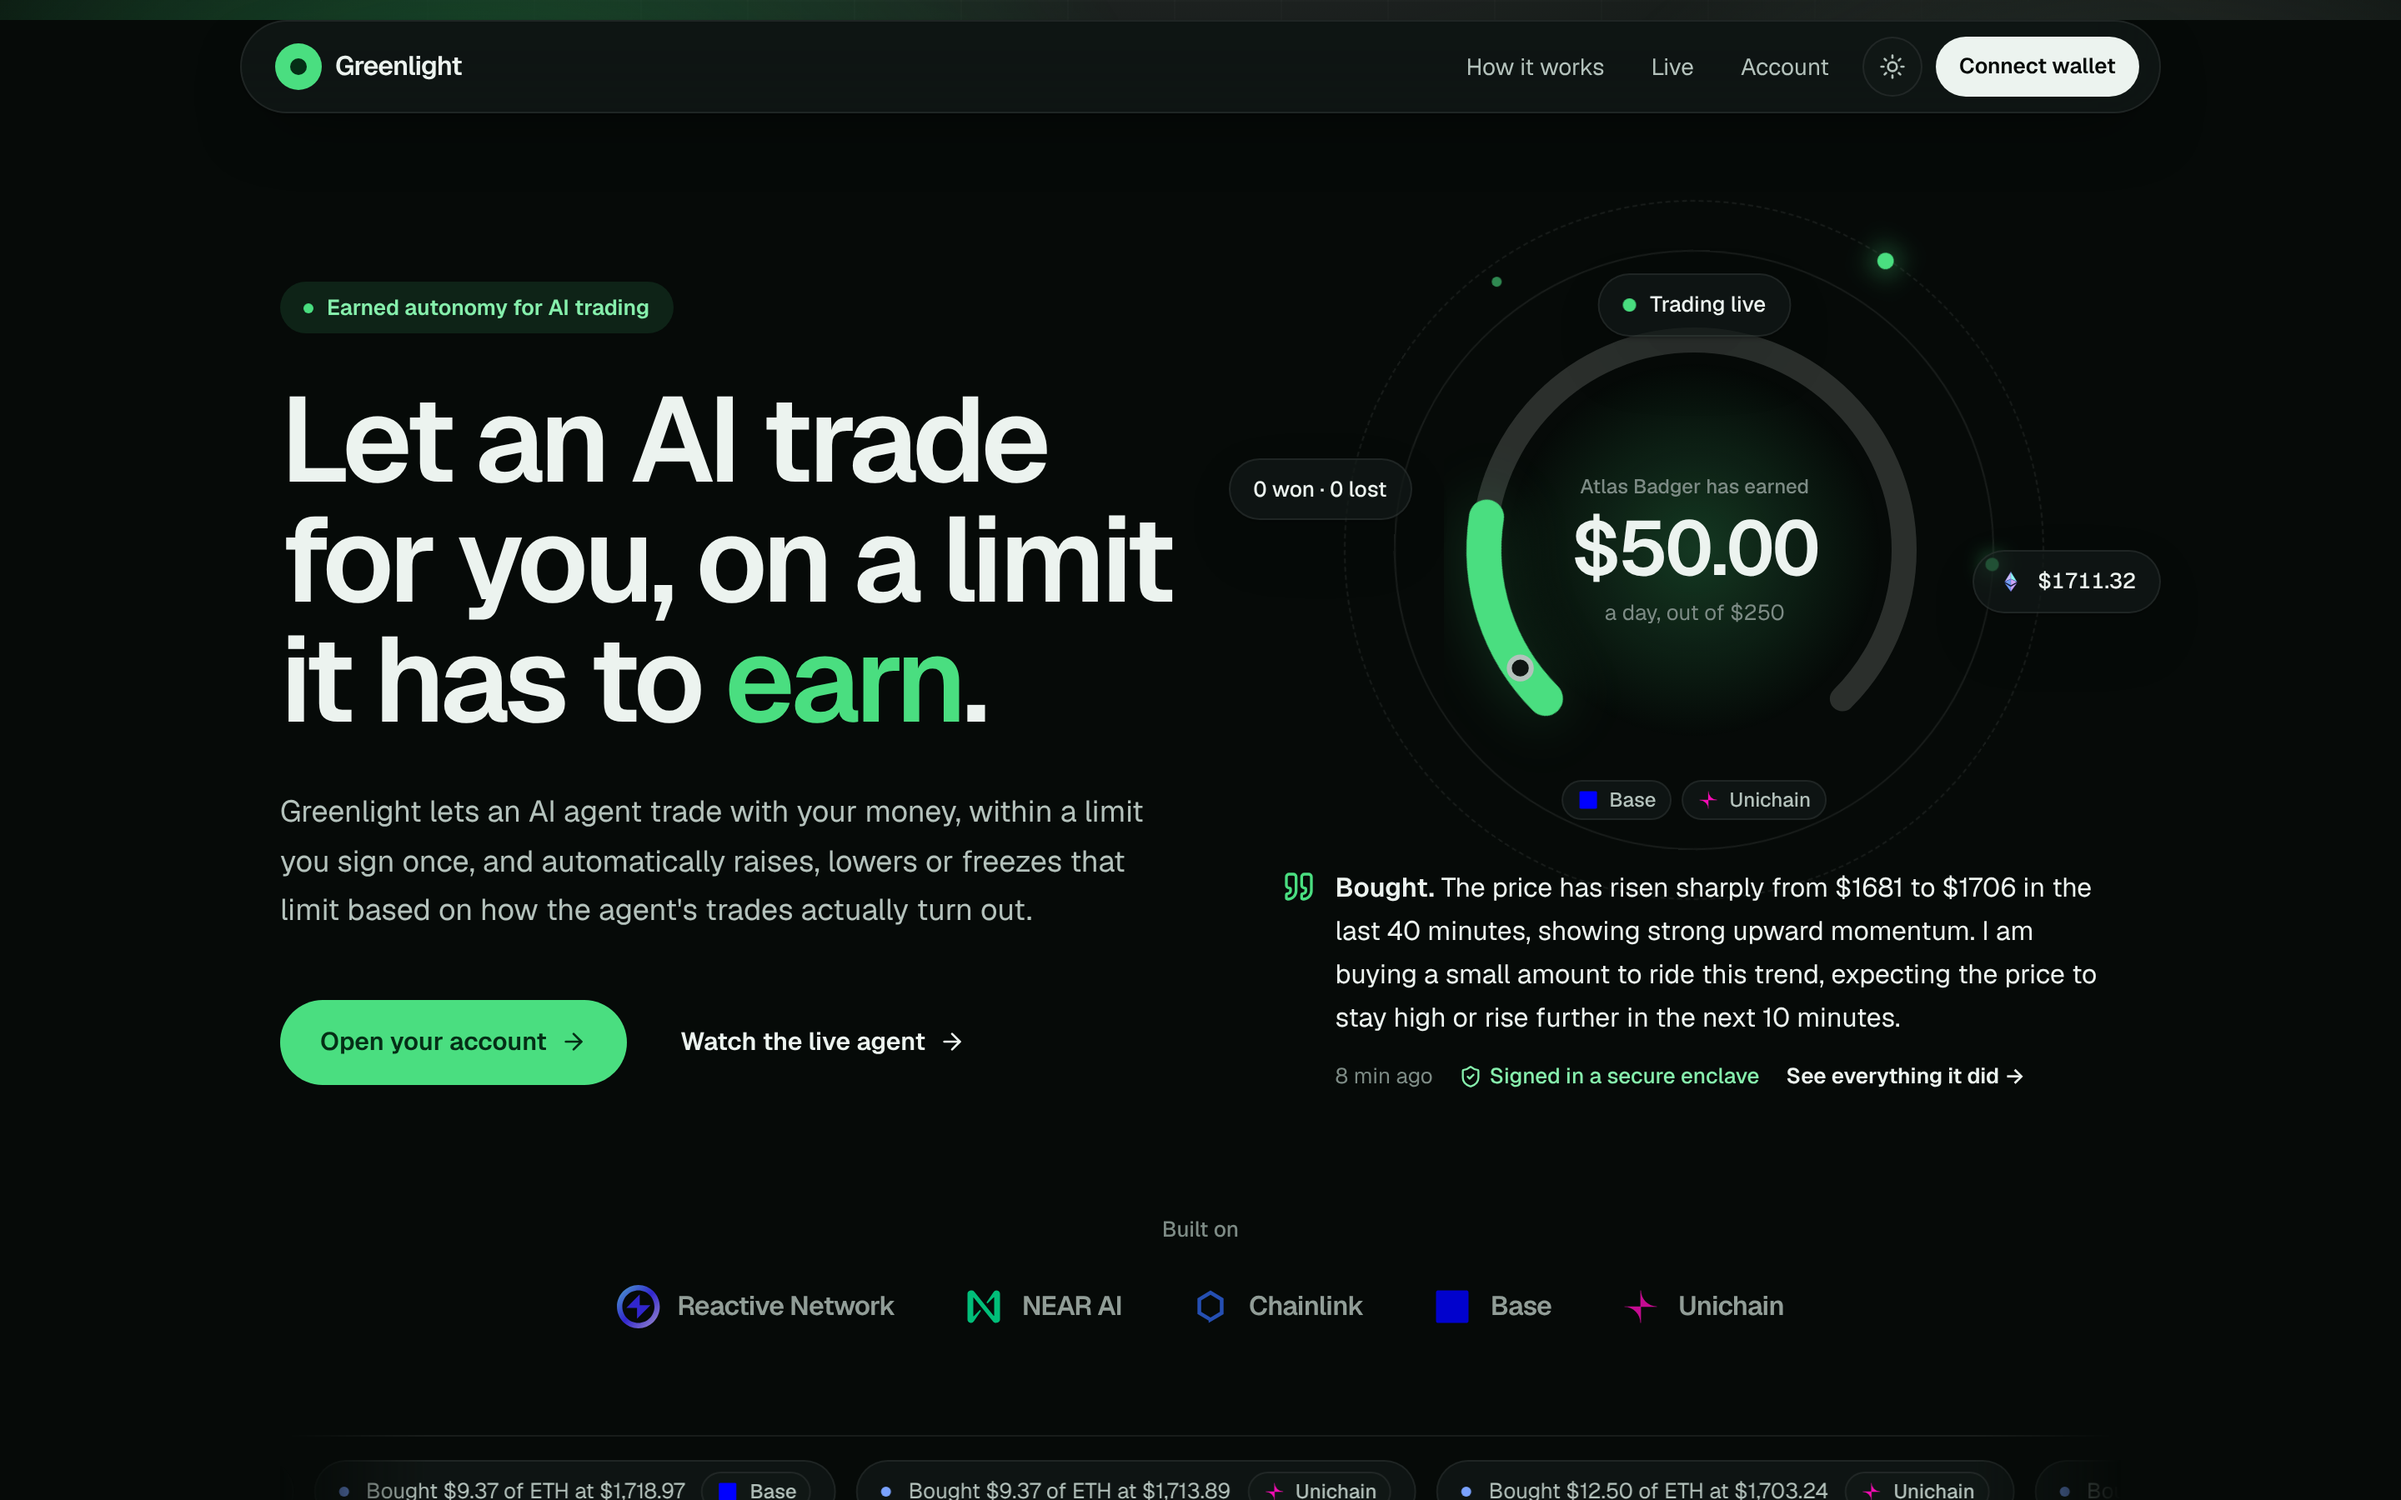
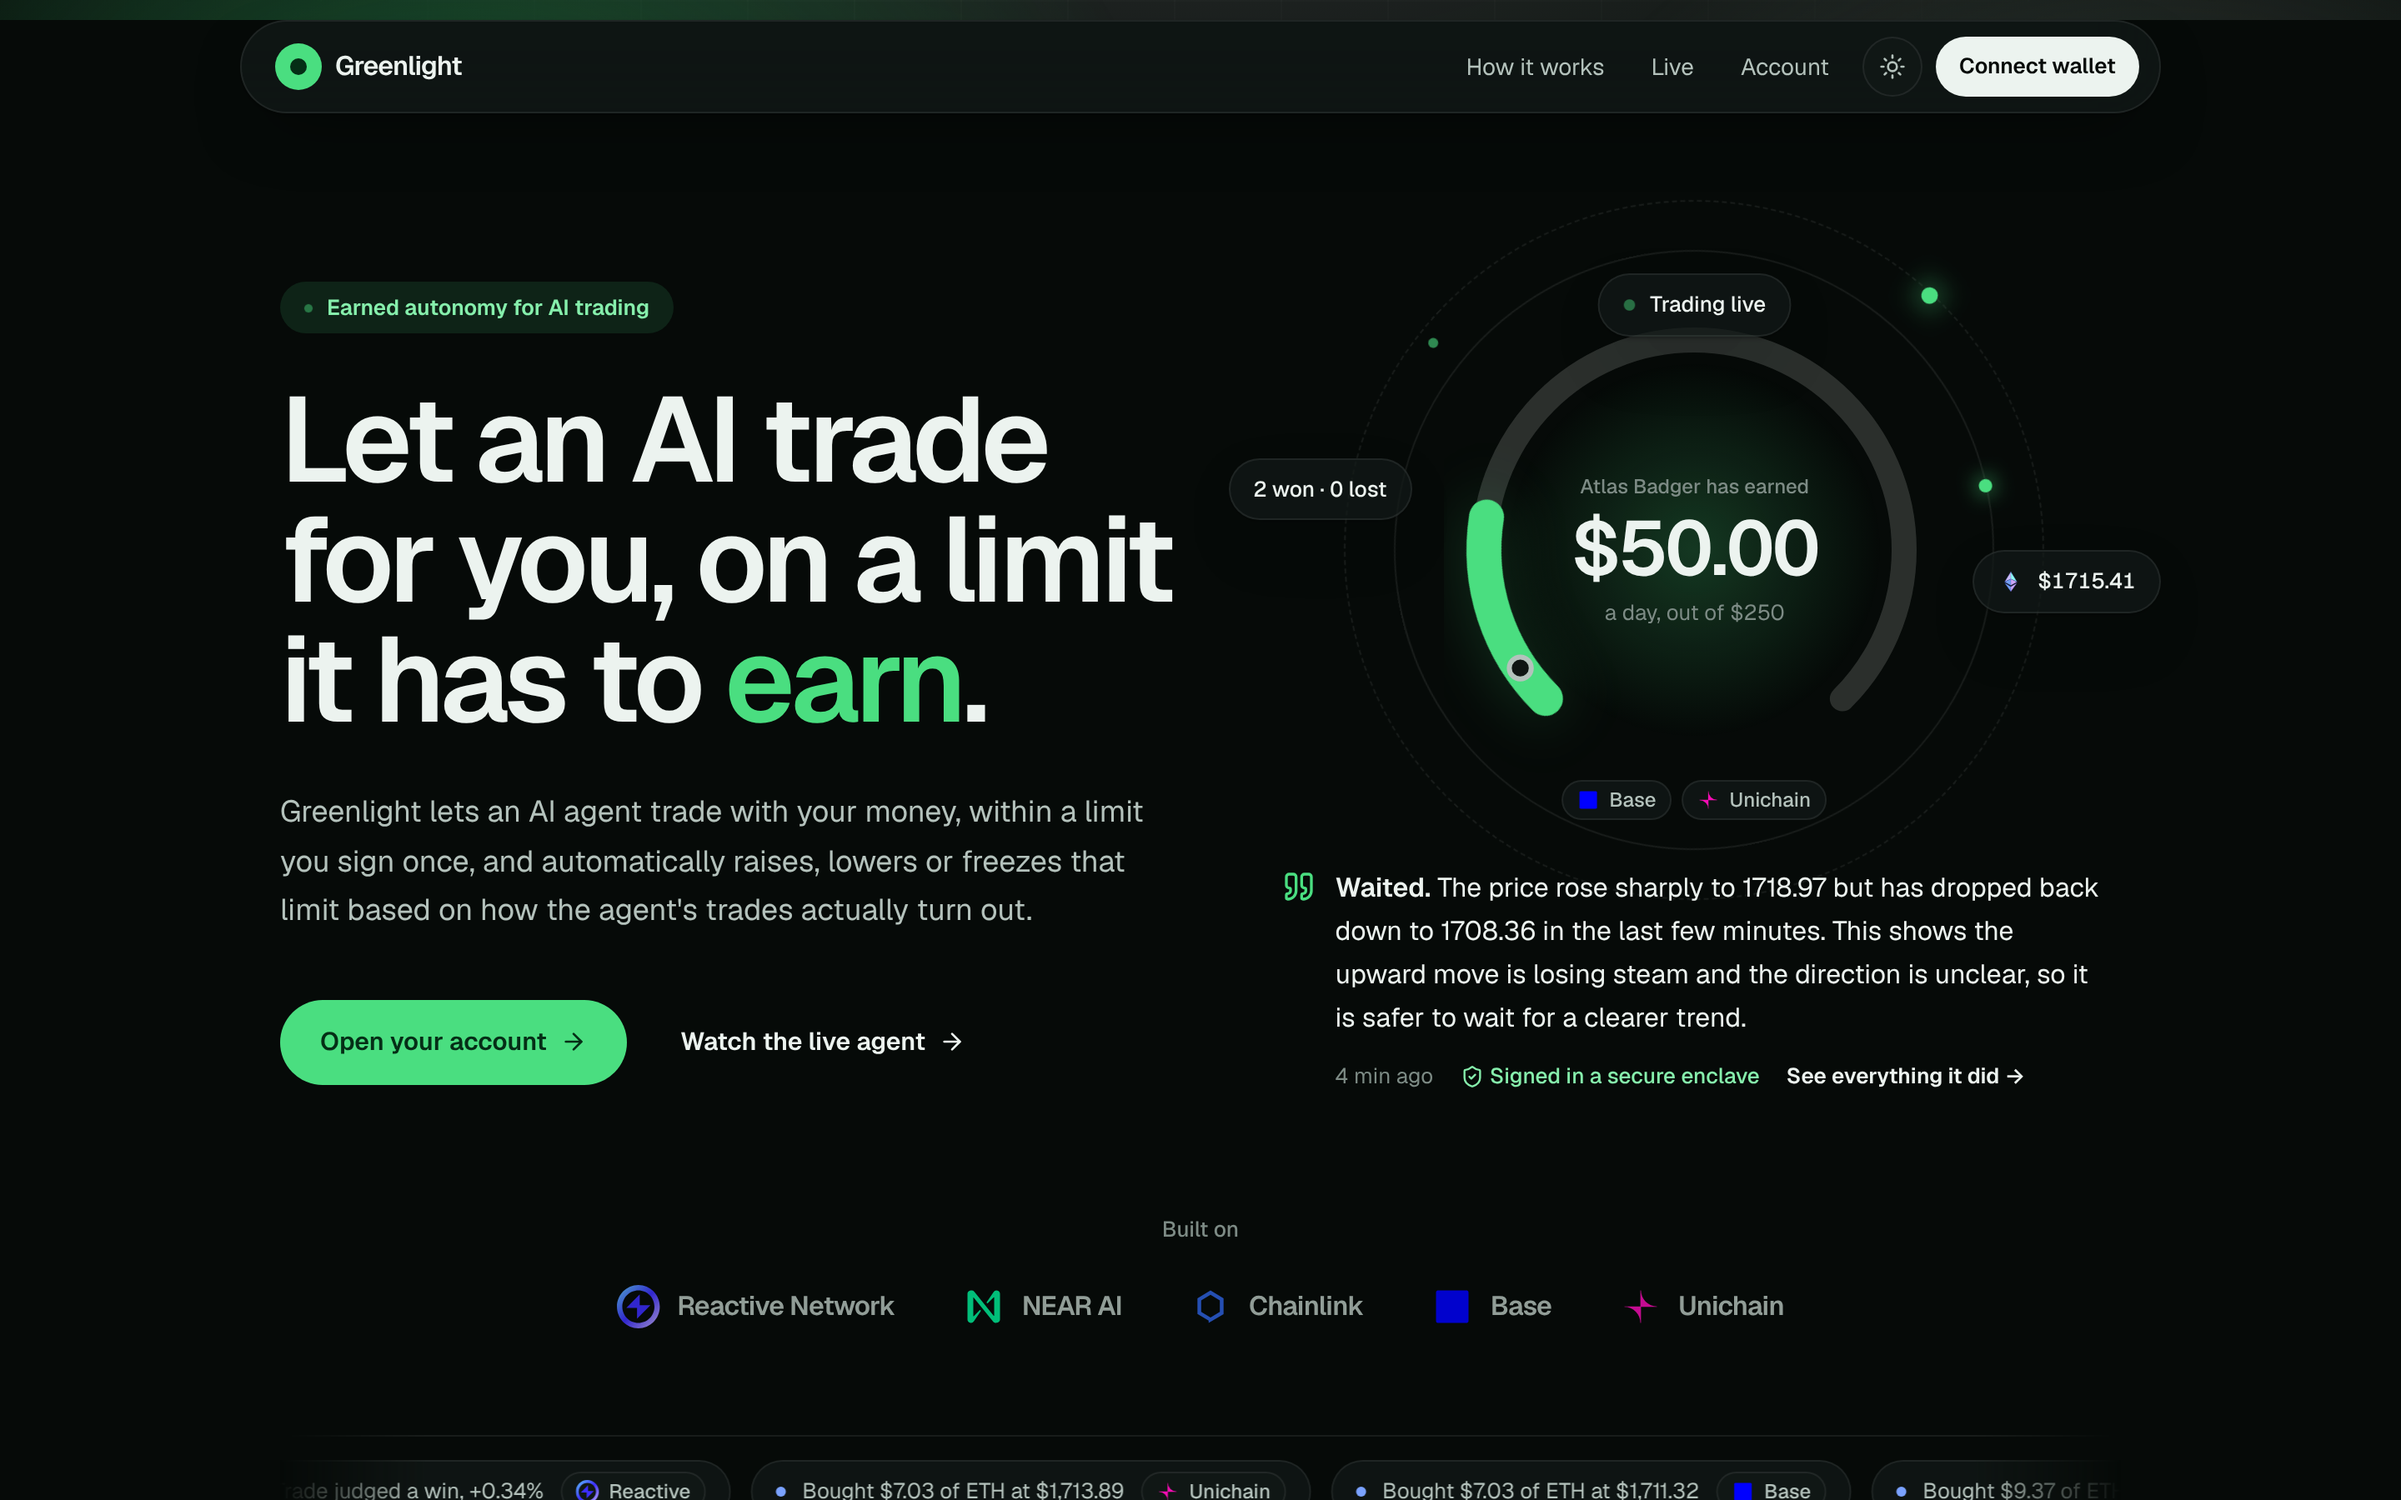
Fresh screenshots of the live agent, today's on-chain loop and current numbers in the README

diff --git a/README.md b/README.md
@@ -20,7 +20,7 @@ Greenlight lets an AI agent trade with your money, within a limit you sign once,
 
 [Live app](https://greenlight-earned.vercel.app) · [Walkthrough](#walkthrough) · [How it works](#how-it-works) · [On-chain proof](#the-full-loop-on-chain) · [Contracts](#deployed-contracts) · [Run it](#run-it-yourself)
 
-<img src="docs/images/home.png" alt="Greenlight home page" width="900" />
+<img src="docs/images/home.png" alt="Greenlight home page, light" width="440" /> <img src="docs/images/home-dark.png" alt="Greenlight home page, dark" width="440" />
 
 </div>
 
@@ -67,7 +67,11 @@ People trust a new hire with a little responsibility first, then give them more 
 
 Open the [live app](https://greenlight-earned.vercel.app) and press **Watch the live agent**. Its page shows the earned limit on its track between lowest and highest, today's remaining room, its record, and the result so far.
 
-<img src="docs/images/agent.png" alt="The live agent's page" width="900" />
+<p align="center">
+  <img src="docs/images/agent.png" alt="The live agent's page" width="680" />
+  &nbsp;
+  <img src="docs/images/phone.png" alt="The same page on a phone" width="190" />
+</p>
 
 ### 2. Read its scorecard
 
@@ -170,7 +174,18 @@ flowchart LR
 
 Every row is a real transaction. The delay is measured from the scorer's decision on Reactive Network to the update landing on each chain.
 
-**A trade judged, and the limit cut on its own**
+**The live agent today: signed trades, judged on Reactive, the limit moved on both chains**
+
+| Step | Network | What happened | Transaction |
+|---|---|---|---|
+| Origin event | Base Sepolia | The AI bought $12.50 of ETH at $1,706.33. The order named this chain and this account, and the account verified the NEAR enclave's signature before filling it | [`0x3152ce…c32b`](https://sepolia.basescan.org/tx/0x3152ce71b24bb49824de7419b04b5fb60c8ab67b720e4ebd345cf9c62a06c32b) |
+| Origin event | Unichain Sepolia | The same decision on the owner's Unichain account, at $1,703.24 | [`0xfcdee4…b6ae`](https://sepolia.uniscan.xyz/tx/0xfcdee48eebe5c5bf30bb2bc2b13037ae053350be02f32f3d54cf539a1a74b6ae) |
+| Reaction | Reactive Lasna | On the first Chainlink update after the window ($1,712.15), the scorer judged both trades as wins: +0.34% and +0.52% | [`0x7665a4…69ef`](https://lasna.reactscan.net/tx/0x7665a4bfe886503cef04c26f1fa1953d638f9388509b383db7d712031a2f69ef) |
+| Reaction | Reactive Lasna | The next update ($1,712.03) judged three later trades as losses and cut the limit step by step from $50.00 to $21.10 | [`0x819ed0…0047`](https://lasna.reactscan.net/tx/0x819ed0aec3afacca07f450e2a8d1604f0edbd727541ebaa06bf0f4808d5b0047) |
+| Callback | Base Sepolia | The new limit, $21.10, applied 2 seconds after the decision | [`0xc0803a…2245`](https://sepolia.basescan.org/tx/0xc0803adb2a665c68e9fbac8a7d6ecf82996f433eb3dd7b5ace96035e5b282245) |
+| Callback | Unichain Sepolia | The same limit applied 3 seconds after the decision | [`0xe5fdd9…30aa`](https://sepolia.uniscan.xyz/tx/0xe5fdd9569d32b1b4f8d79d674488b58bf875c82e02d9b6813bae1337961730aa) |
+
+**The first trade judged, and the limit cut on its own**
 
 | Step | Network | What happened | Transaction |
 |---|---|---|---|
@@ -196,7 +211,7 @@ Every row is a real transaction. The delay is measured from the scorer's decisio
 | Callback | Base Sepolia | First limit applied | [`0x04fb4c…198a`](https://sepolia.basescan.org/tx/0x04fb4c93720c51fd8e24096c8e2b7ebb99ff7d06485c0977de892100851c198a) |
 | Callback | Unichain Sepolia | The owner's second account received the same limit | [`0xa9162a…2873`](https://sepolia.uniscan.xyz/tx/0xa9162ae095e25330d54ca13a2b64730b879511852b97f338a20ec9a2c9ac2873) |
 
-A decision on Reactive Network reaches each chain in **2 seconds** typically and **4 seconds** at most. `npm run replay` recomputes these numbers from the chains, and `npm run replay -- --deployment testnet-v1` covers the first deployment, where the trade and freeze above happened.
+A decision on Reactive Network reaches each chain in **2 to 3 seconds** typically and **6 seconds** at most. `npm run replay` recomputes these numbers from the chains, and `npm run replay -- --deployment testnet-v1` covers the first deployment, where the first trade and the freeze above happened.
 
 ## Reactive Network tools used
 
